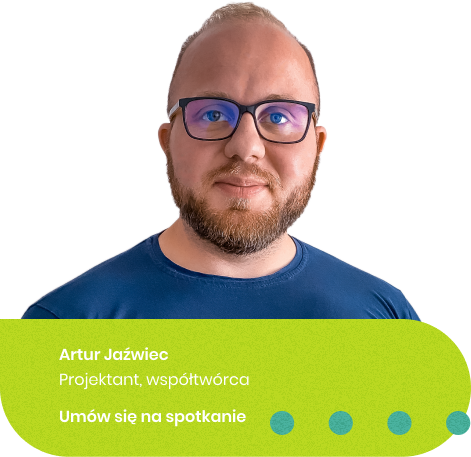
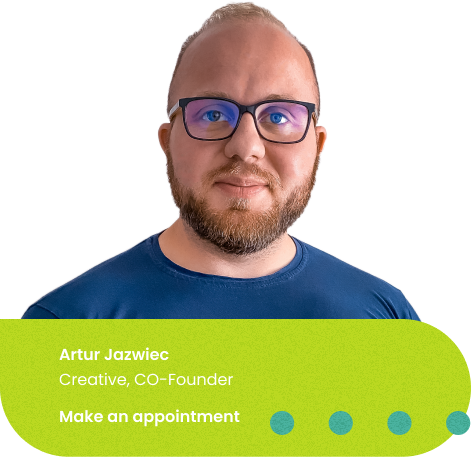
.

Changed region(s): [[0.1189, 0.7659, 0.535, 0.8578], [0.1189, 0.8884, 0.535, 0.9497]]

diff --git a/index.html b/index.html
@@ -115,7 +115,7 @@
       <div class="menu--links--row">
         <li>
           <div class="menu-link"  onclick="document.getElementById('creator1').scrollIntoView({behavior:'smooth'})">
-            <p>cytat</p>
+            <p>quote</p>
           </div>
         </li>
         <li>

diff --git a/pricing.html b/pricing.html
@@ -90,7 +90,7 @@
       <div class="menu--links--row">
         <li>
           <div onclick="window.location.href='/#creator1'">
-            <p>cytat</p>
+            <p>quote</p>
           </div>
         </li><li>
           <div onclick="window.location.href='/#team'">

diff --git a/casestudy1.html b/casestudy1.html
@@ -92,7 +92,7 @@
       <div class="menu--links--row">
         <li>
           <div onclick="window.location.href='/#creator1'">
-            <p>cytat</p>
+            <p>quote</p>
           </div>
         </li>
         <li>

diff --git a/casestudy2.html b/casestudy2.html
@@ -87,7 +87,7 @@
       <div class="menu--links--row">
         <li>
           <div onclick="window.location.href='/#creator1'">
-            <p>cytat</p>
+            <p>quote</p>
           </div>
         </li>
         <li>

diff --git a/casestudy3.html b/casestudy3.html
@@ -87,7 +87,7 @@
       <div class="menu--links--row">
         <li>
           <div onclick="window.location.href='/#creator1'">
-            <p>cytat</p>
+            <p>quote</p>
           </div>
         </li>
         <li>

diff --git a/casestudy4.html b/casestudy4.html
@@ -87,7 +87,7 @@
       <div class="menu--links--row">
         <li>
           <div onclick="window.location.href='/#creator1'">
-            <p>cytat</p>
+            <p>quote</p>
           </div>
         </li>
         <li>

diff --git a/casestudy5.html b/casestudy5.html
@@ -87,7 +87,7 @@
       <div class="menu--links--row">
         <li>
           <div onclick="window.location.href='/#creator1'">
-            <p>cytat</p>
+            <p>quote</p>
           </div>
         </li>
         <li>

diff --git a/casestudy6.html b/casestudy6.html
@@ -87,7 +87,7 @@
       <div class="menu--links--row">
         <li>
           <div onclick="window.location.href='/#creator1'">
-            <p>cytat</p>
+            <p>quote</p>
           </div>
         </li>
         <li>
